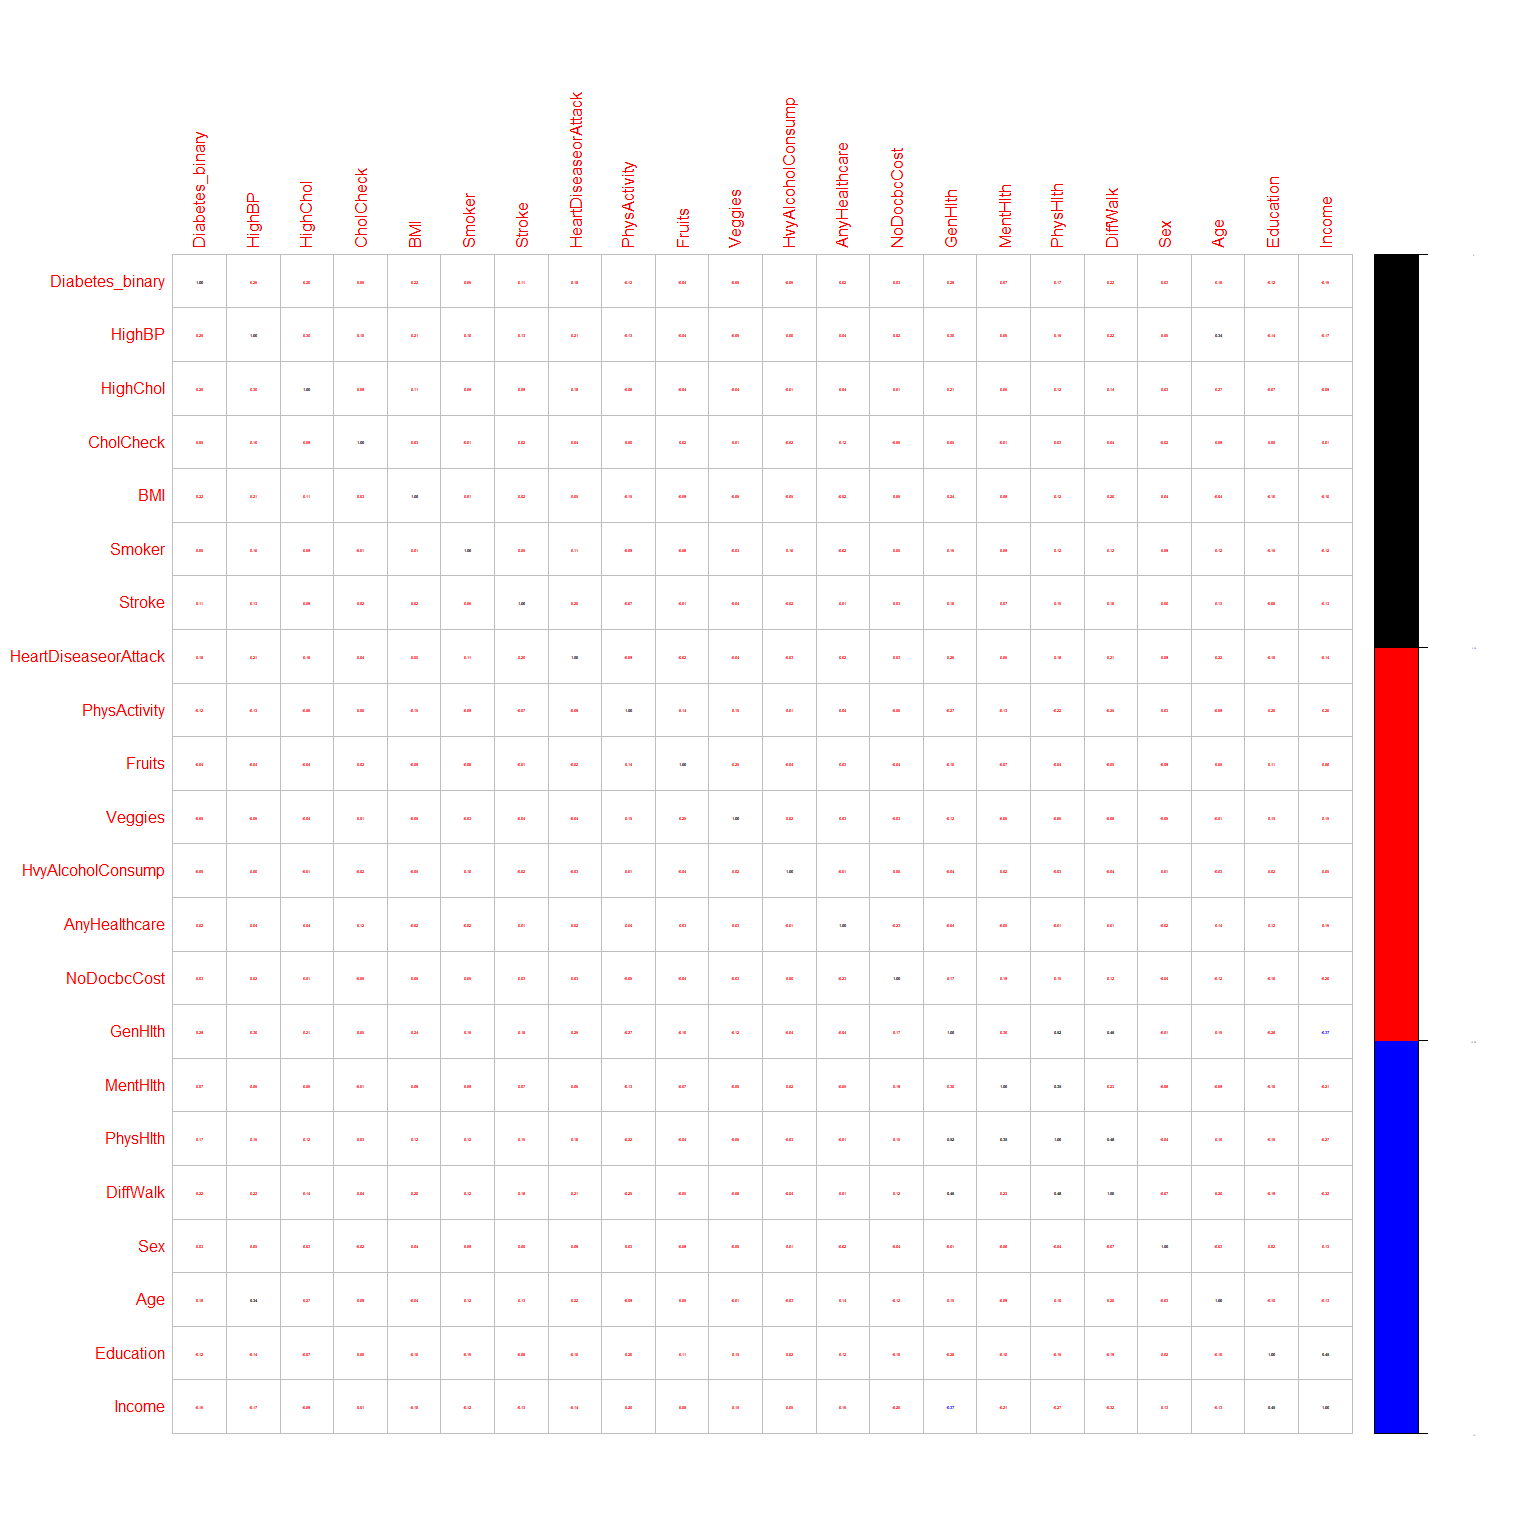
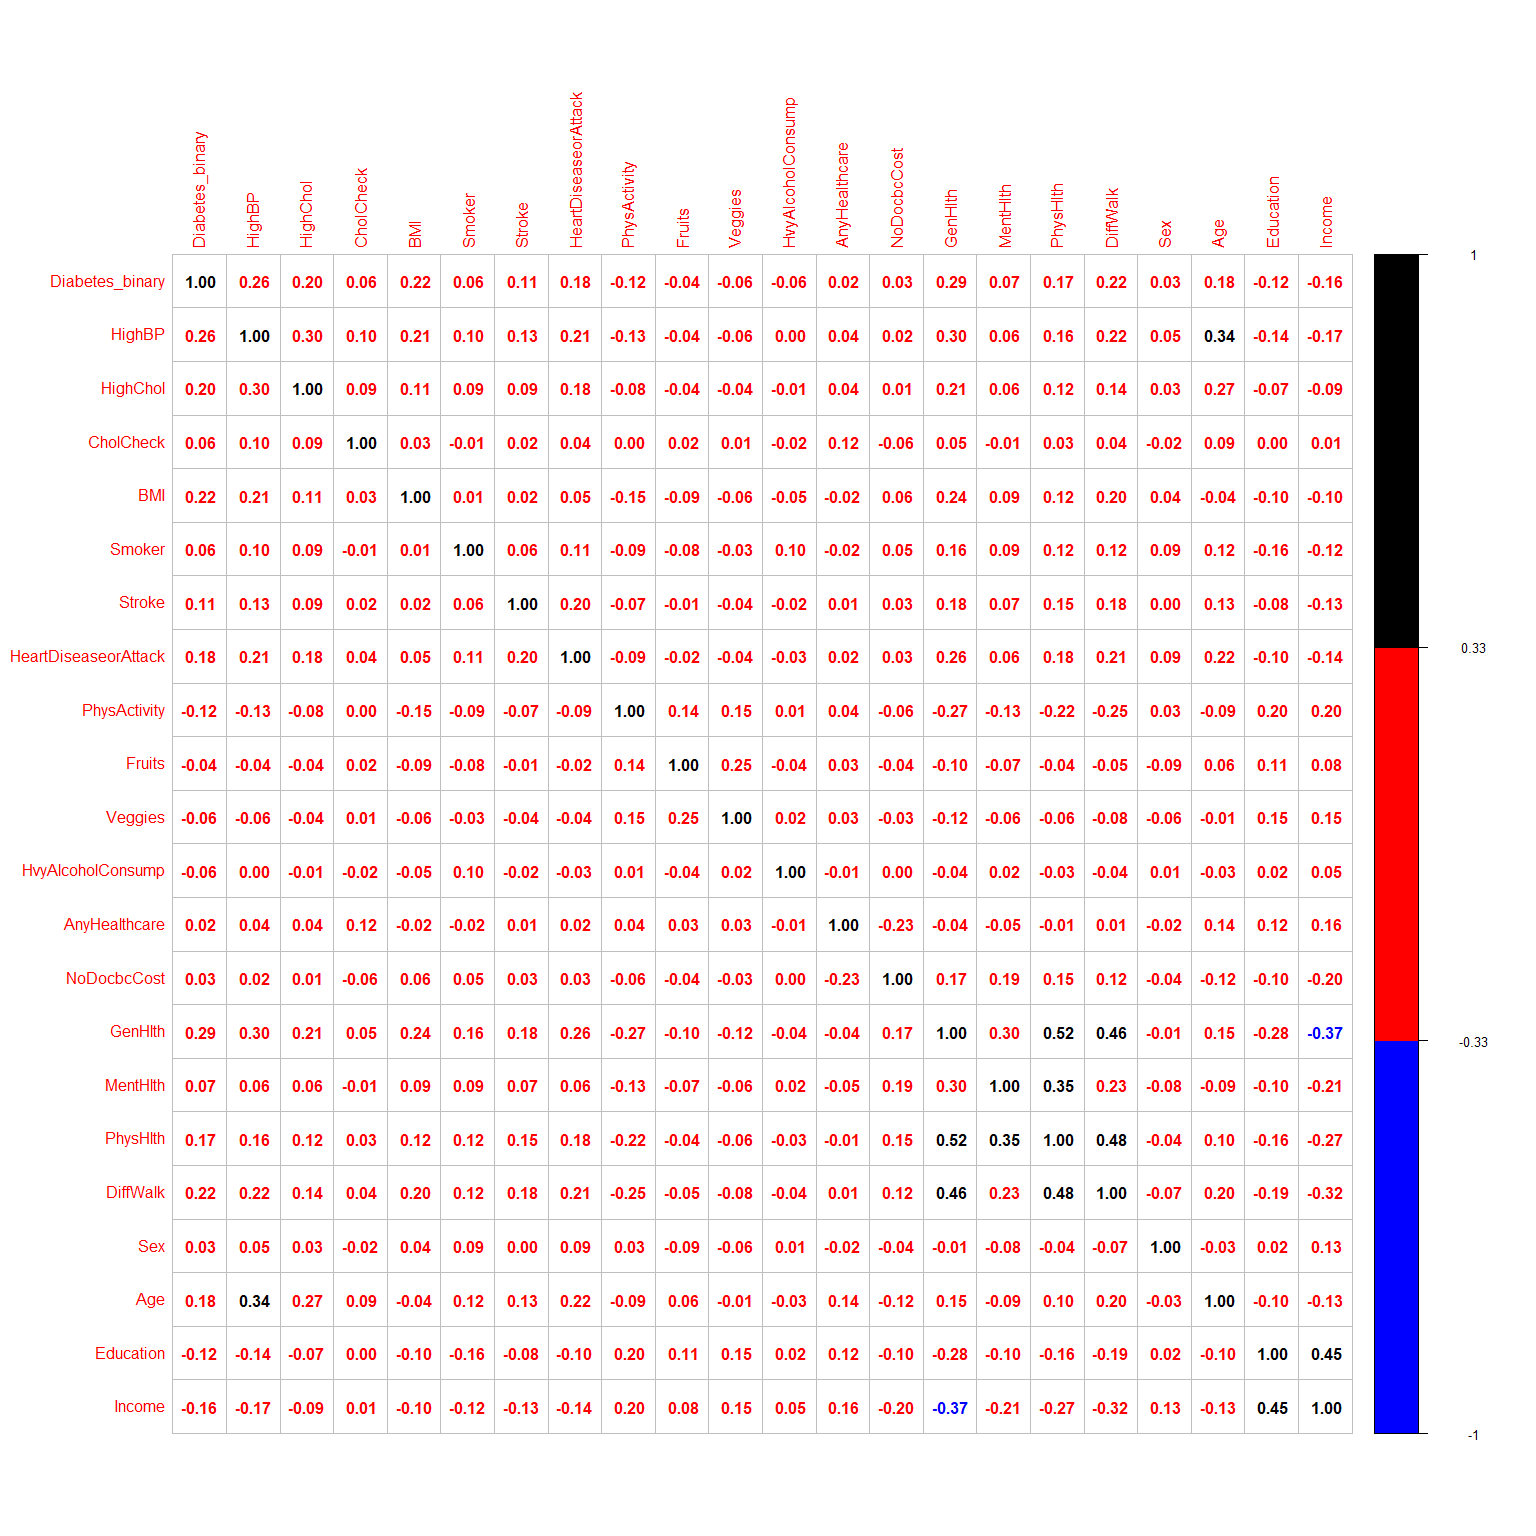
updated

diff --git a/Logistic_Bayesian_Using_Stan/Bayesian_Stan_Logistic_Model.md b/Logistic_Bayesian_Using_Stan/Bayesian_Stan_Logistic_Model.md
@@ -138,7 +138,7 @@ if (!require(corrplot)) {
 
 corrplot(corr_mat, type = "full", hclust.method = "ward", method = "number", 
 p.mat = corr_mat, insig = 'p-value', , sig.level = 1, col = c("blue", 
-"red", "black"), cl.cex = 0.1, number.digits = 2, number.cex = 0.25)
+"red", "black"))
 ```
 
 ![](Bayesian_Stan_Logistic_Model_files/figure-commonmark/unnamed-chunk-3-1.png)
